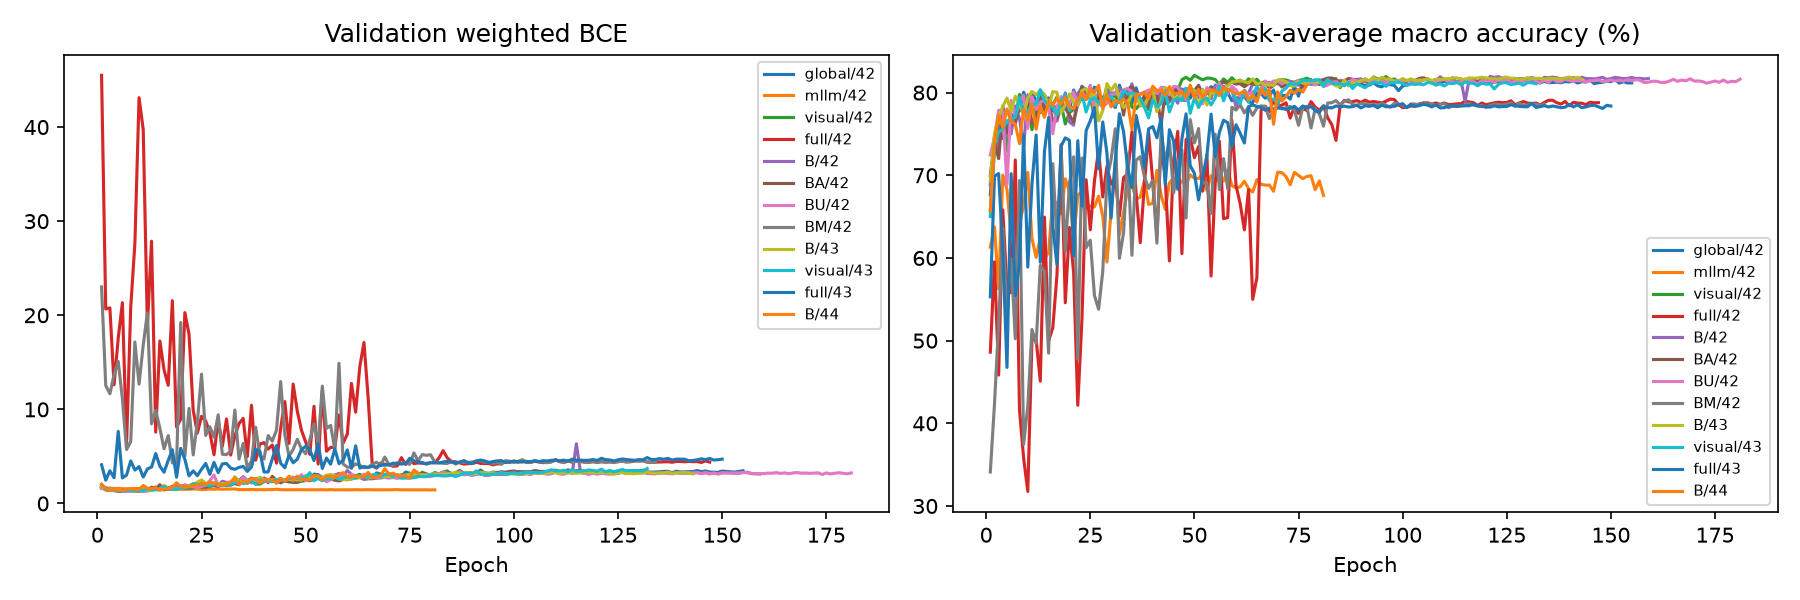
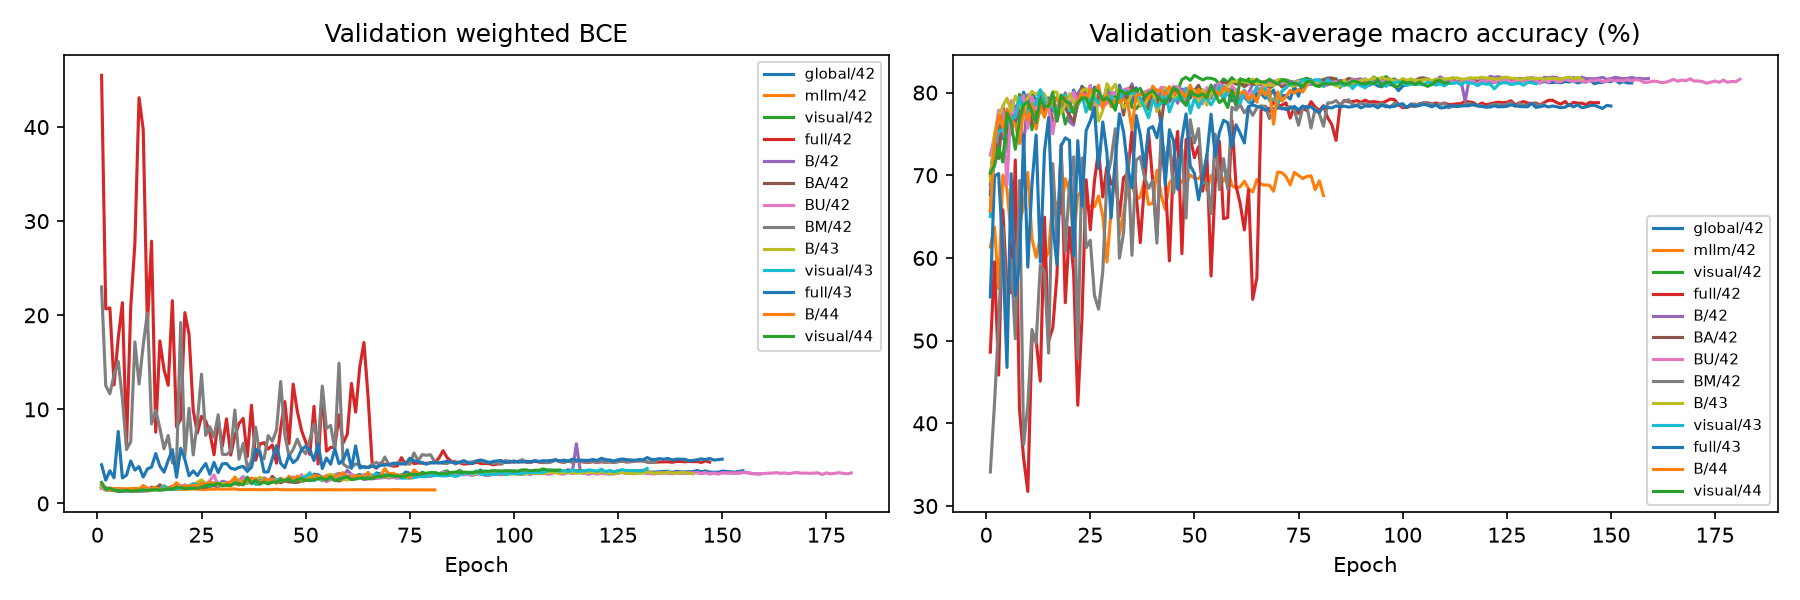
results: reproduction suite 13/14 running

diff --git a/reports/reproduction/20261005_042629_774918_suite/reproduction_report.md b/reports/reproduction/20261005_042629_774918_suite/reproduction_report.md
@@ -21,6 +21,7 @@ code_compat 保留独立七图增强、无 ImageNet normalization、global-only 
 | visual | 43 | 81 | 84.86 / 70.60 | 79.55 / 82.07 |
 | full | 43 | 99 | 82.84 / 67.39 | 77.12 / 80.07 |
 | B | 44 | 26 | 84.26 / 69.21 | 78.61 / 80.67 |
+| visual | 44 | 60 | 84.01 / 70.44 | 78.28 / 81.19 |
 
 六组消融和主模型多 seed 的运行状态见 `run_status.json`；未完成时不宣称整个复现完成。
 TVMoE 等外部实现/同 split 逐图预测、论文 Sankey 8×5 公式仍缺失，不能复现对应比较和图。
